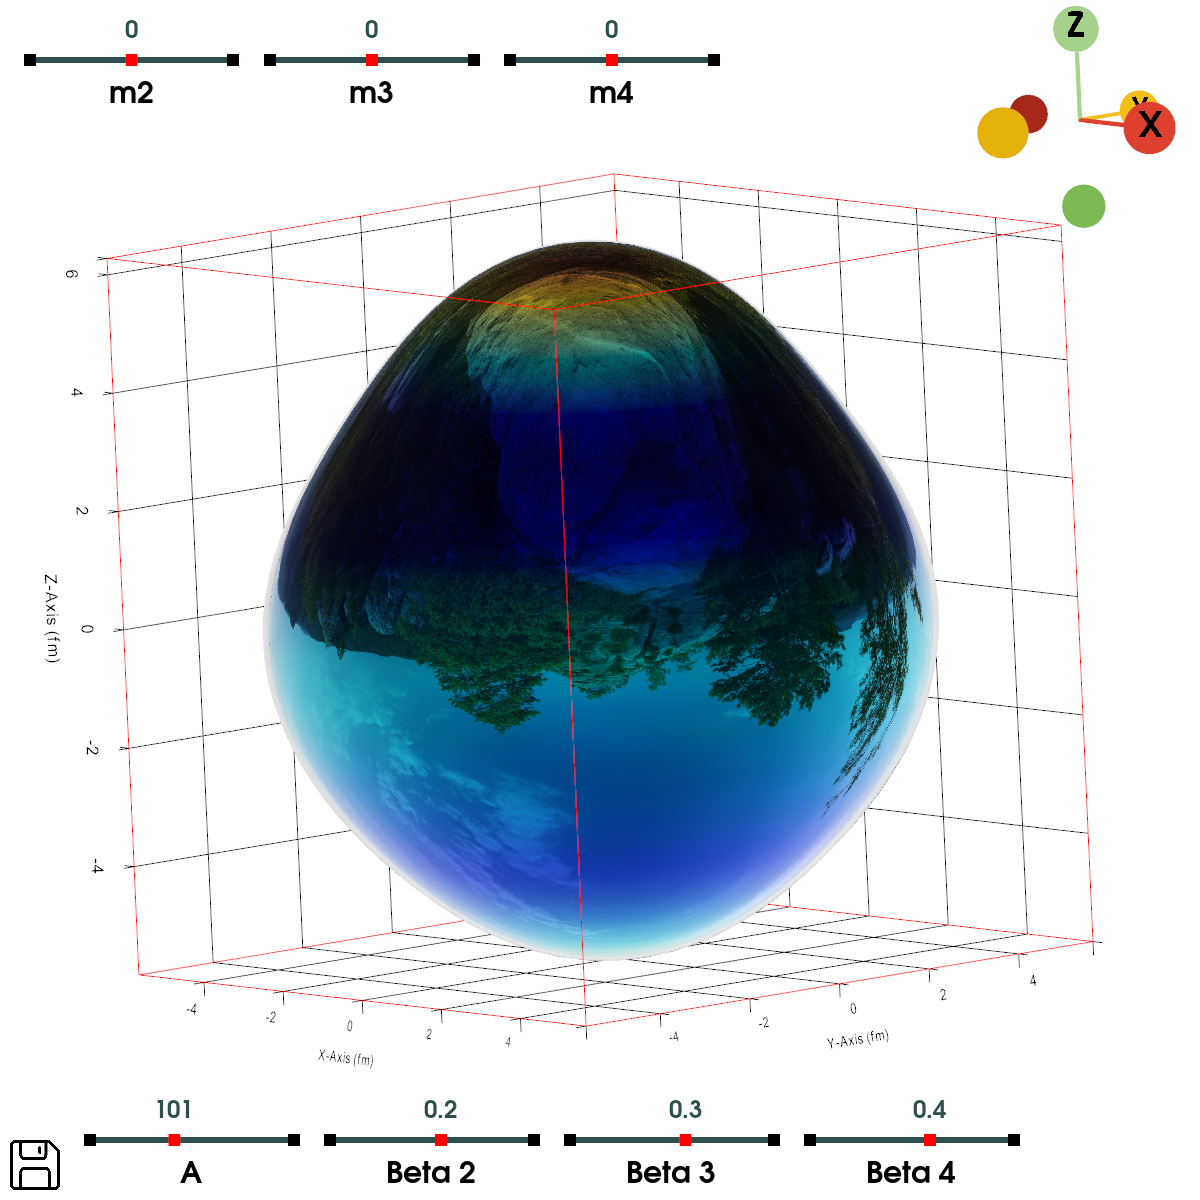
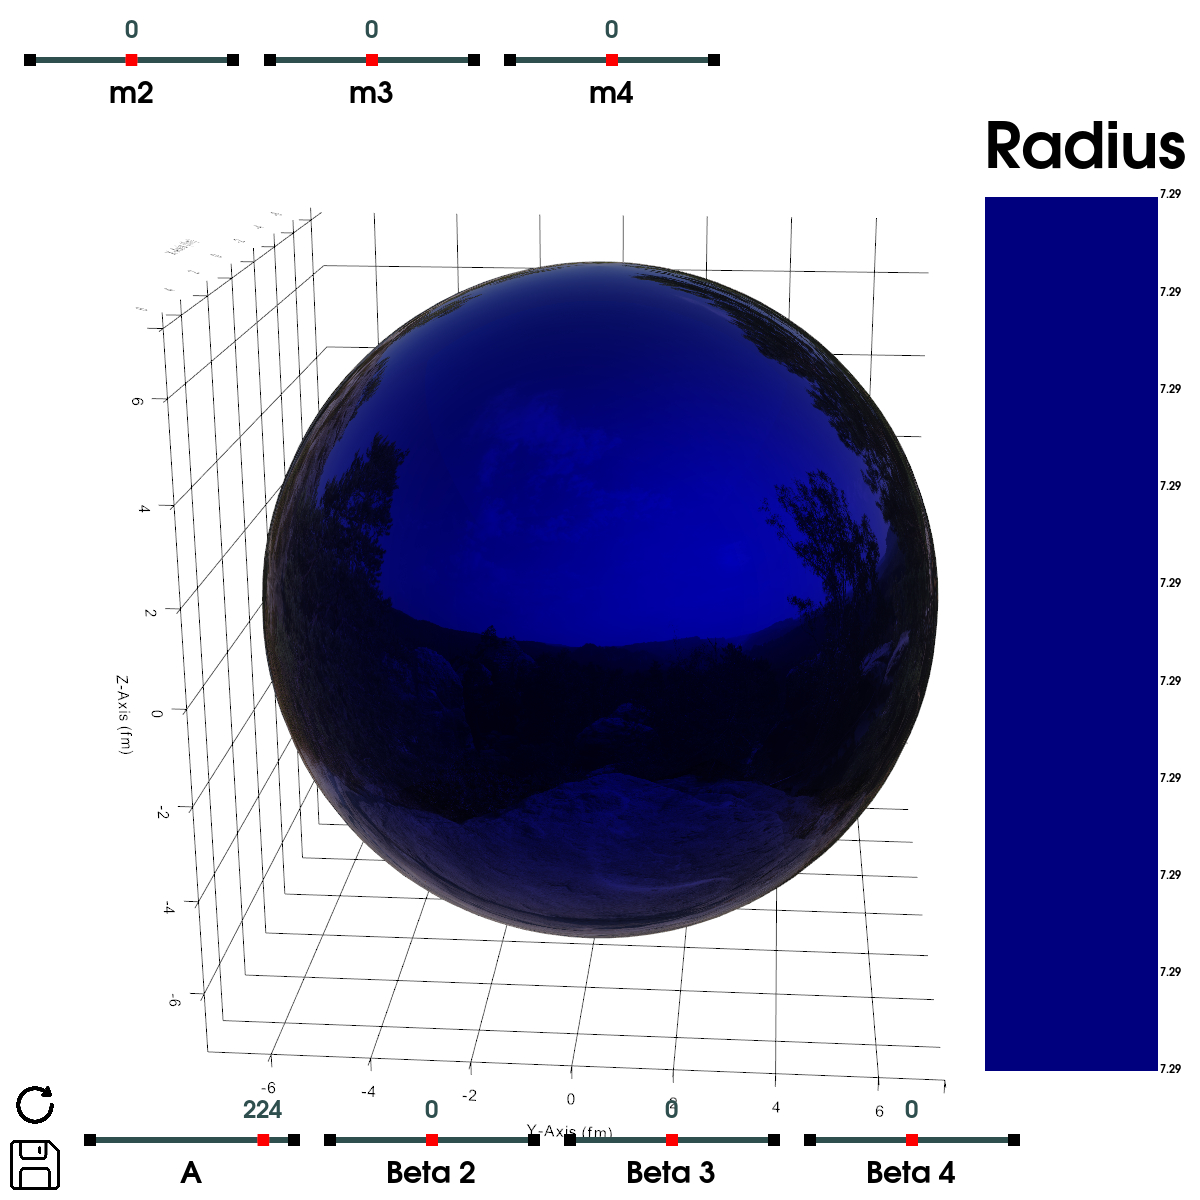
corrected cubemap, added verbose print for user commands

diff --git a/vtk_utils.py b/vtk_utils.py
@@ -17,6 +17,12 @@ def vtk_render(A, beta2, beta3, beta4, m2, m3, m4, theta, phi, secondary_scalar=
     initial_values=dict()
     initial_values.update({'A':A, 'b2':beta2, 'b3':beta3, 'b4':beta4, 'm2':m2, 'm3':m3, 'm4':m4})
 
+    print('press \'r\' to reset camera')
+    print('press \'o\' to toggle orthogonal projection')
+    print('press \'w\' to render as wireframe')
+    print('press \'s\' to render as surface')
+    print('press \'i\' to change display type (flat, smooth, reflective)')
+    print('press \'e\' or \'q\' to exit')
 
     nuclear_shape = add_spherical_function(r, add_gridlines=False, secondary_scalars=secondary_scalar)
 
@@ -143,7 +149,7 @@ def colorbar(actor,
 
 
 
-def ReadCubeMap(folderRoot, fileRoot, ext, key):
+def ReadCubeMap(folderRoot, fileRoot, ext, key, flip_axis=1):
     """
     Read the cube map.
     :param folderRoot: The folder where the cube maps are stored.
@@ -181,10 +187,13 @@ def ReadCubeMap(folderRoot, fileRoot, ext, key):
         imgReader = readerFactory.CreateImageReader2(fn)
         imgReader.SetFileName(fn)
 
-        flip = vtk.vtkImageFlip()
-        flip.SetInputConnection(imgReader.GetOutputPort())
-        flip.SetFilteredAxis(1)  # flip y axis
-        texture.SetInputConnection(i, flip.GetOutputPort(0))
+        if flip_axis is not None:
+            flip = vtk.vtkImageFlip()
+            flip.SetInputConnection(imgReader.GetOutputPort())
+            flip.SetFilteredAxis(flip_axis)  # flip y axis
+            texture.SetInputConnection(i, flip.GetOutputPort(0))
+        else:
+            texture.SetInputConnection(i, imgReader.GetOutputPort())
         i += 1
     return texture
 
@@ -310,7 +319,11 @@ class SliderCallback:
             actor = actors.GetNextActor()
             # print(type(actor), total_actors)
             if isinstance(actor, vtk.vtkOpenGLActor):
-                source_actor = actor
+                sourcename = actor.GetObjectName()
+                # print('sourcename', sourcename)
+                if sourcename is not None:
+                    if sourcename.startswith('surface'):
+                        source_actor = actor
             if source_actor is not None:
                 if isinstance(actor, vtk.vtkCubeAxesActor):
                     actor.SetBounds(source_actor.GetBounds())
@@ -646,7 +659,7 @@ def add_PBR(actor, metallic_factor=1, roughness_factor=0, verbose=True):
 
     return actor
 
-def render(actors=None, background_color='White', window_size=(1200, 1200), multiview=False, add_axes=True, add_colorbar=True, secondary_scalar=None, theta=None, use_PBR=False, initial_values=None):
+def render(actors=None, background_color='White', window_size=(1200, 1200), multiview=False, add_axes=True, add_colorbar=True, secondary_scalar=None, theta=None, use_PBR=True, initial_values=None):
 
     renderWindow = vtk.vtkRenderWindow()
     renderWindowInteractor = vtk.vtkRenderWindowInteractor()
@@ -1276,6 +1289,15 @@ def add_polyhedron(vertices, faces, labels=None, offset=[0, 0, 0], scalars=None,
 
         actor.GetProperty().SetOpacity(opacity)
 
+        if actor_name is None:
+            
+            random_string = np.random.randint(10000,9000000)
+
+            if representation == 'wireframe':
+                actor_name = 'wireframe-%i' % random_string
+            else:
+                actor_name = 'surface-%i' % random_string
+
         if representation == 'wireframe':
 
             actor.GetProperty().SetRepresentationToWireframe()
@@ -1285,8 +1307,7 @@ def add_polyhedron(vertices, faces, labels=None, offset=[0, 0, 0], scalars=None,
         else:
             actor.GetProperty().SetInterpolationToGouraud()
 
-        if actor_name is None:
-            actor_name = 'surface-%i' % np.random.randint(10000,9000000)
+       
         actor.SetObjectName(actor_name)
 
         return actor
@@ -1473,11 +1494,12 @@ def add_spherical_function(function_values, secondary_scalars=None, radius=1, sc
     actor_dict = dict()
 
     if function_name is None:
-        function_name = 'Surface-%i' % np.random.randint(0, 10000000)
+        function_name = 'surface-%i' % np.random.randint(0, 10000000)
 
     actor_dict.update({function_name : surface})
 
     if add_gridlines:
+        print(quads.shape)
         grid = add_polyhedron(locs, quads, scalars=None, opacity=1.0, color_map=colormap, representation='wireframe', mesh_color=mesh_color, offset=offset)
         grid.GetProperty().SetLineWidth(line_width)
         grid.GetProperty().LightingOff()
@@ -1486,7 +1508,7 @@ def add_spherical_function(function_values, secondary_scalars=None, radius=1, sc
         if function_name is None:
             gridline_name = 'mesh lines %i' % np.random.randint(0, 10000000)
         else:
-            gridline_name = '%s-gridlines' % function_name 
+            gridline_name = 'gridlines-%s' % function_name 
         actor_dict.update({gridline_name: grid})
 
         return actor_dict
